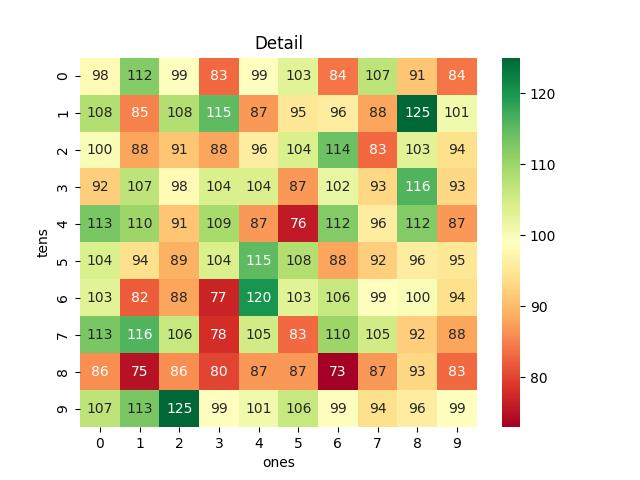
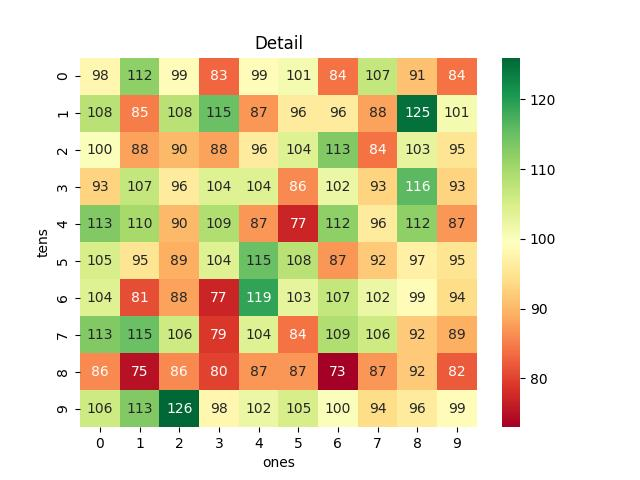
Updated 2022-12-28

diff --git a/README.md b/README.md
@@ -4,13 +4,13 @@ Using GitHub Action to automatically fetch and analyze results of the Vietnam lo
 
 | Lotery      | Loto |
 | :-----------: | :-----------: |
-| <table><tr><td>Date</td><td>27-12-2022</td></tr><tr><td>Special</td><td>97797</td></tr><tr><td>First</td><td>97019</td></tr><tr><td>Second</td><td>43753, 26438</td></tr><tr><td rowspan="2">Third</td><td>64682, 00587, 54529</td></tr><tr><td>59186, 92346, 18732</td></tr><tr><td>Fourth</td><td>1044, 5088, 6902, 1744</td></tr><tr><td rowspan="2">Fifth</td><td>7189, 2337, 6880</td></tr><tr><td>6802, 9544, 8850</td></tr><tr><td>Sixth</td><td>315, 541, 564</td></tr><tr><td>Seventh</td><td>30, 68, 74, 60</td></tr></table> | <table><tr><td>First</td><td>Last</td></tr><tr><td>0</td><td>2, 2</td></tr><tr><td>1</td><td>5, 9</td></tr><tr><td>2</td><td>9</td></tr><tr><td>3</td><td>0, 2, 7, 8</td></tr><tr><td>4</td><td>1, 4, 4, 4, 6</td></tr><tr><td>5</td><td>0, 3</td></tr><tr><td>6</td><td>0, 4, 8</td></tr><tr><td>7</td><td>4</td></tr><tr><td>8</td><td>0, 2, 6, 7, 8, 9</td></tr><tr><td>9</td><td>7</td></tr></table> |
+| <table><tr><td>Date</td><td>28-12-2022</td></tr><tr><td>Special</td><td>55145</td></tr><tr><td>First</td><td>18766</td></tr><tr><td>Second</td><td>30529, 57234</td></tr><tr><td rowspan="2">Third</td><td>53627, 57194, 77416</td></tr><tr><td>74079, 18677, 97813</td></tr><tr><td>Fourth</td><td>3192, 5315, 2058, 1403</td></tr><tr><td rowspan="2">Fifth</td><td>3873, 0030, 1317</td></tr><tr><td>1550, 2575, 3167</td></tr><tr><td>Sixth</td><td>167, 160, 431</td></tr><tr><td>Seventh</td><td>67, 68, 96, 51</td></tr></table> | <table><tr><td>First</td><td>Last</td></tr><tr><td>0</td><td>3</td></tr><tr><td>1</td><td>3, 5, 6, 7</td></tr><tr><td>2</td><td>7, 9</td></tr><tr><td>3</td><td>0, 1, 4</td></tr><tr><td>4</td><td>5</td></tr><tr><td>5</td><td>0, 1, 8</td></tr><tr><td>6</td><td>0, 6, 7, 7, 7, 8</td></tr><tr><td>7</td><td>3, 5, 7, 9</td></tr><tr><td>8</td><td></td></tr><tr><td>9</td><td>2, 4, 6</td></tr></table> |
 
 <h2>Analysis of one-year results</h2>
 
-Max count: 125. Min count: 73.
+Max: 126. Min: 73.
 
-Mean: 97.47. Standard deviation: 11.46.
+Mean: 97.47. Standard deviation: 11.41.
 
 <h3>Detail</h3>
 
